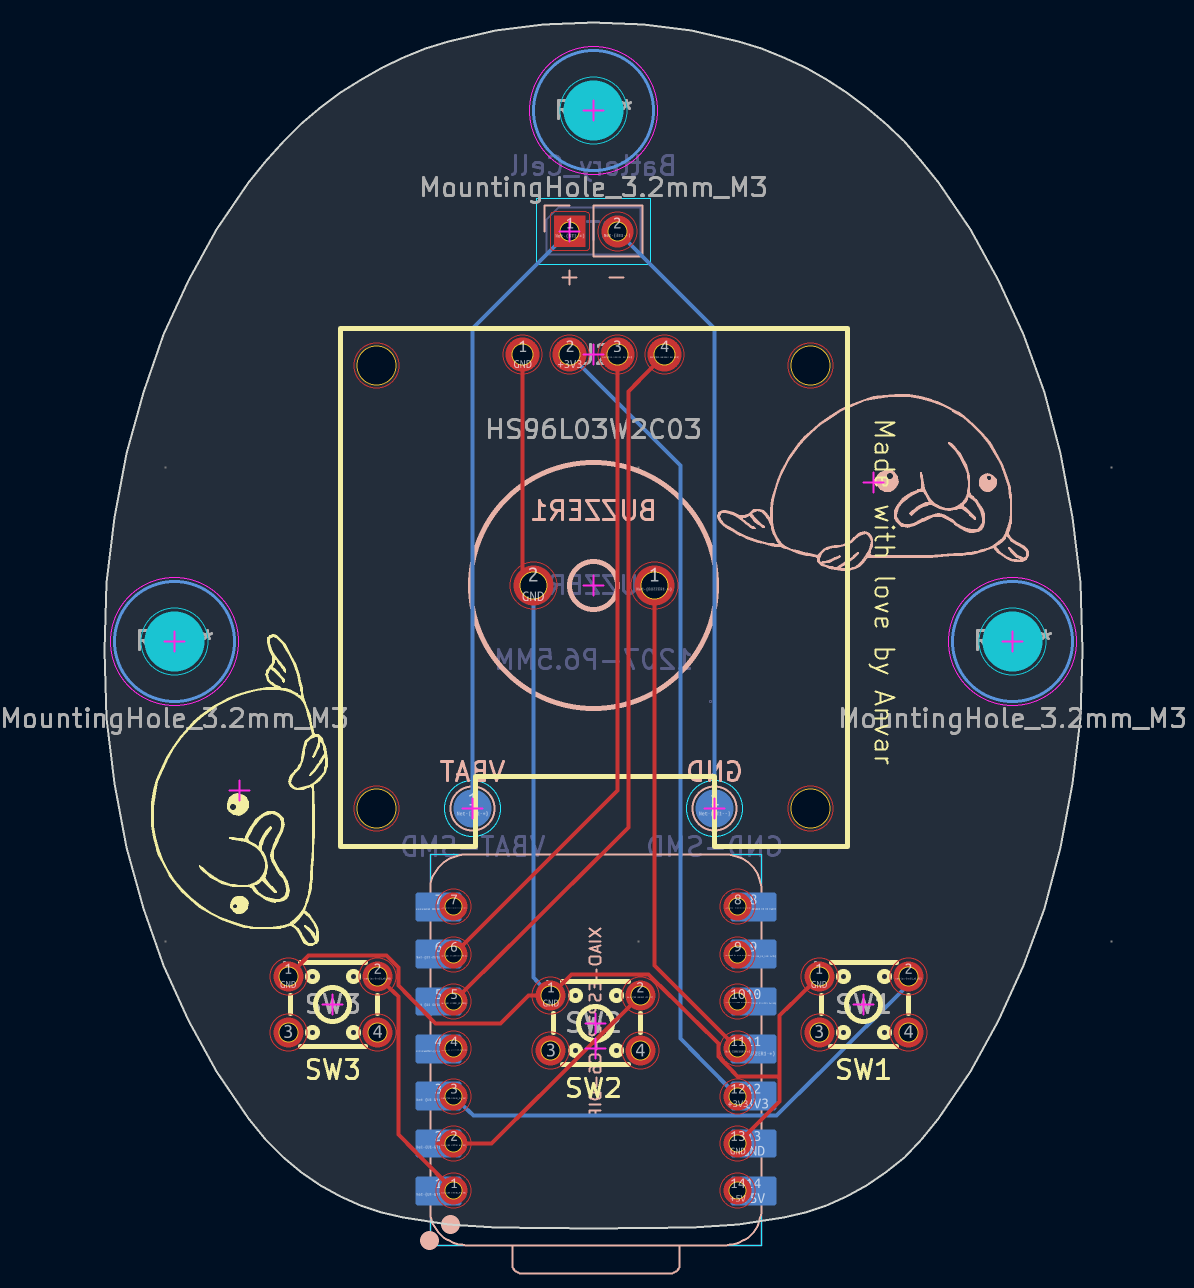
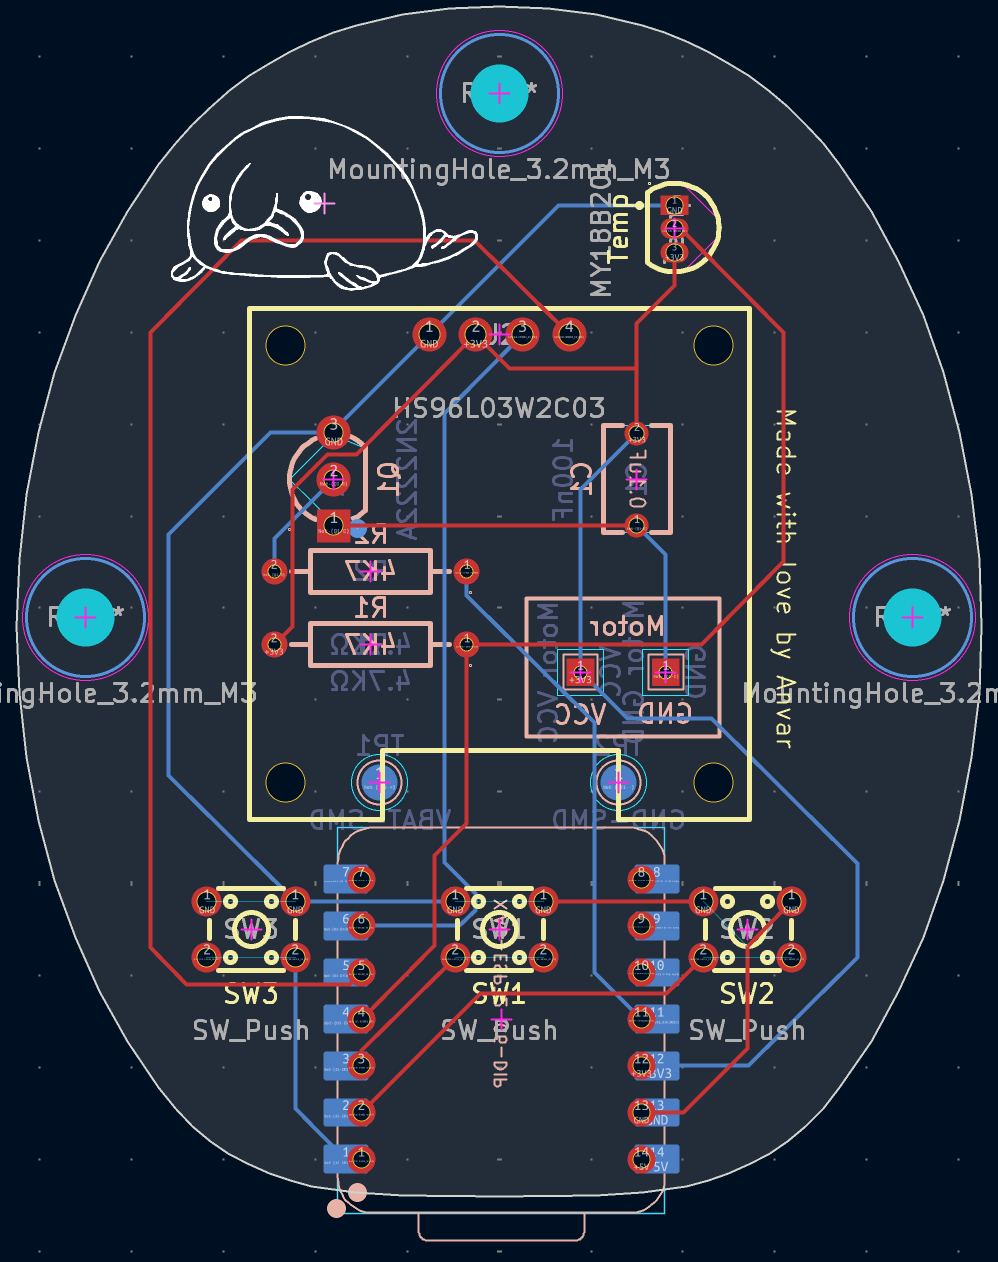
updated images

diff --git a/README.md b/README.md
@@ -2,7 +2,7 @@
 > This project is currently in developement, so some of the design is out of date
 
 <div align="center">
-  <img src="https://github.com/Anvarys/blobfi/blob/master/images/front.png?raw=true" alt="Blobfi" width="300">
+  <img src="https://github.com/Anvarys/blobfi/blob/master/images/top-view.png?raw=true" alt="Blobfi" width="300">
 </div>
 
 <h2 align="center">Blobfi</h2>
